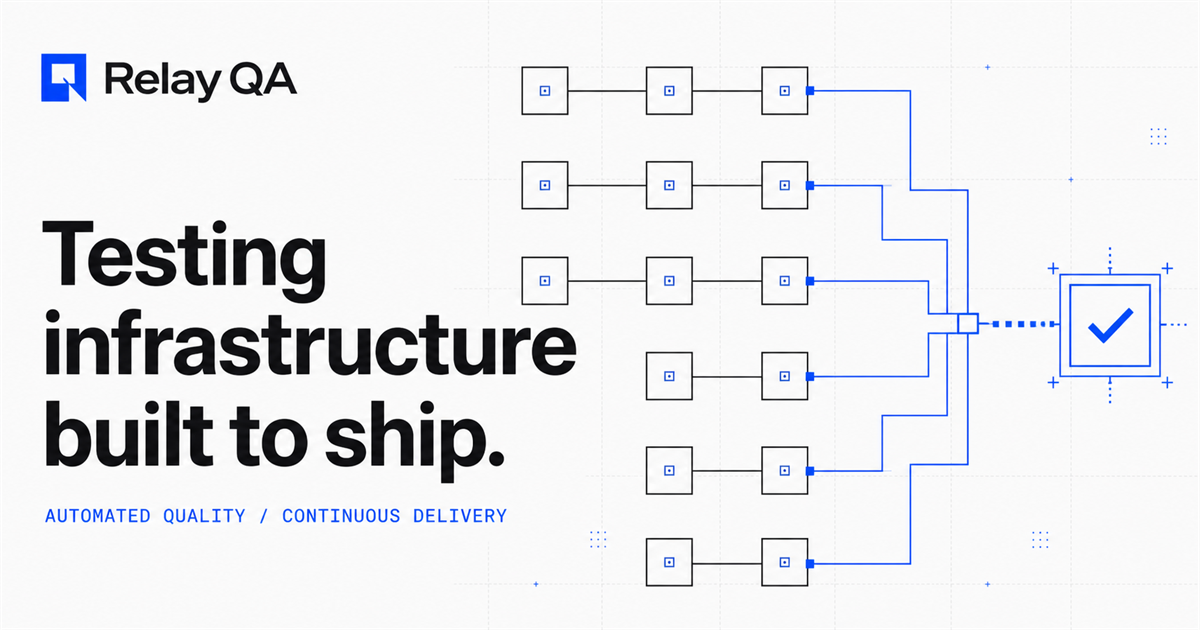
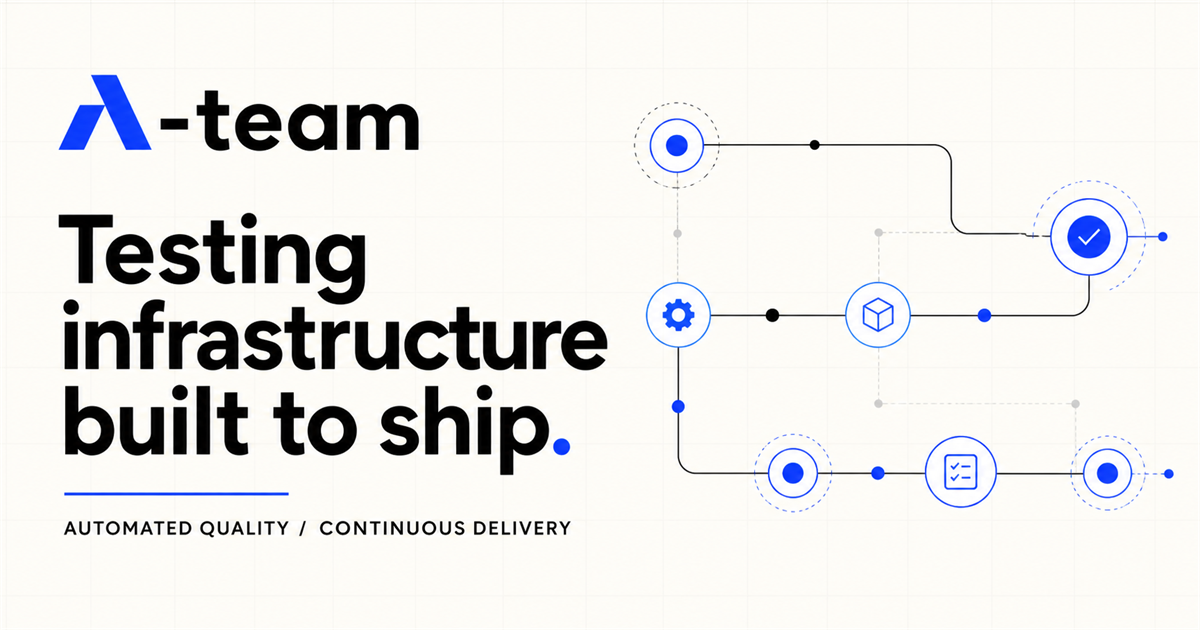
Rename agency brand to A-team

diff --git a/src/app/icon.tsx b/src/app/icon.tsx
@@ -6,7 +6,7 @@ export const contentType = "image/png";
 export default function Icon() {
   return new ImageResponse(
     <div style={{ width: "100%", height: "100%", display: "flex", alignItems: "center", justifyContent: "center", background: "#090909", color: "#ffffff", fontSize: 22, fontWeight: 700, letterSpacing: "-1px" }}>
-      R<span style={{ color: "#2455ff" }}>/</span>QA
+      A<span style={{ color: "#2455ff" }}>-</span>T
     </div>,
     size,
   );

diff --git a/src/config/site.ts b/src/config/site.ts
@@ -1,6 +1,6 @@
 export const siteConfig = {
-  name: "Relay QA",
-  shortName: "R/QA",
+  name: "A-team",
+  shortName: "A-team",
   description: "Automated testing systems designed around your release process.",
   email: process.env.NEXT_PUBLIC_COMPANY_EMAIL || "hello@example.com",
   siteUrl: process.env.NEXT_PUBLIC_SITE_URL || "http://localhost:3000",

diff --git a/README.md b/README.md
@@ -1,4 +1,4 @@
-# Relay QA agency website
+# A-team agency website
 
 A production-oriented, responsive B2B website for a QA automation agency. The current brand, team, case studies, contact details, and legal information are centralized demonstration placeholders and must be replaced before launch.
 
@@ -81,11 +81,11 @@ The current brief requires exactly five services, three projects, four team memb
 
 ## Booking configuration
 
-Set `NEXT_PUBLIC_CALCOM_URL` to a full public event URL such as `https://cal.com/team/event`. The `/book` route renders the Cal.com element inline. When the value is absent or invalid, the component keeps its layout and displays an email fallback.
+Set `NEXT_PUBLIC_CALCOM_URL` to a full public event URL such as `https://cal.com/team/event`. The `/book` route renders the Cal.com element inline. When the value is absent or invalid, the component displays the interactive email-based booking planner.
 
 ## Testing and CI
 
-Unit tests cover collection integrity, analytics behavior, booking fallback, navigation, mobile menu state, and data-driven cards. Playwright covers route navigation, CTAs, generated case studies, the mobile menu, booking fallback, and axe scans of representative pages. GitHub Actions runs install, lint, typecheck, unit tests, build, Chromium installation, and browser tests.
+Unit tests cover collection integrity, analytics behavior, the booking planner, navigation, mobile menu state, and data-driven cards. Playwright covers route navigation, CTAs, generated case studies, the mobile menu, booking, and axe scans of representative pages. GitHub Actions runs install, lint, typecheck, unit tests, build, Chromium installation, and browser tests.
 
 ## Deployment
 
